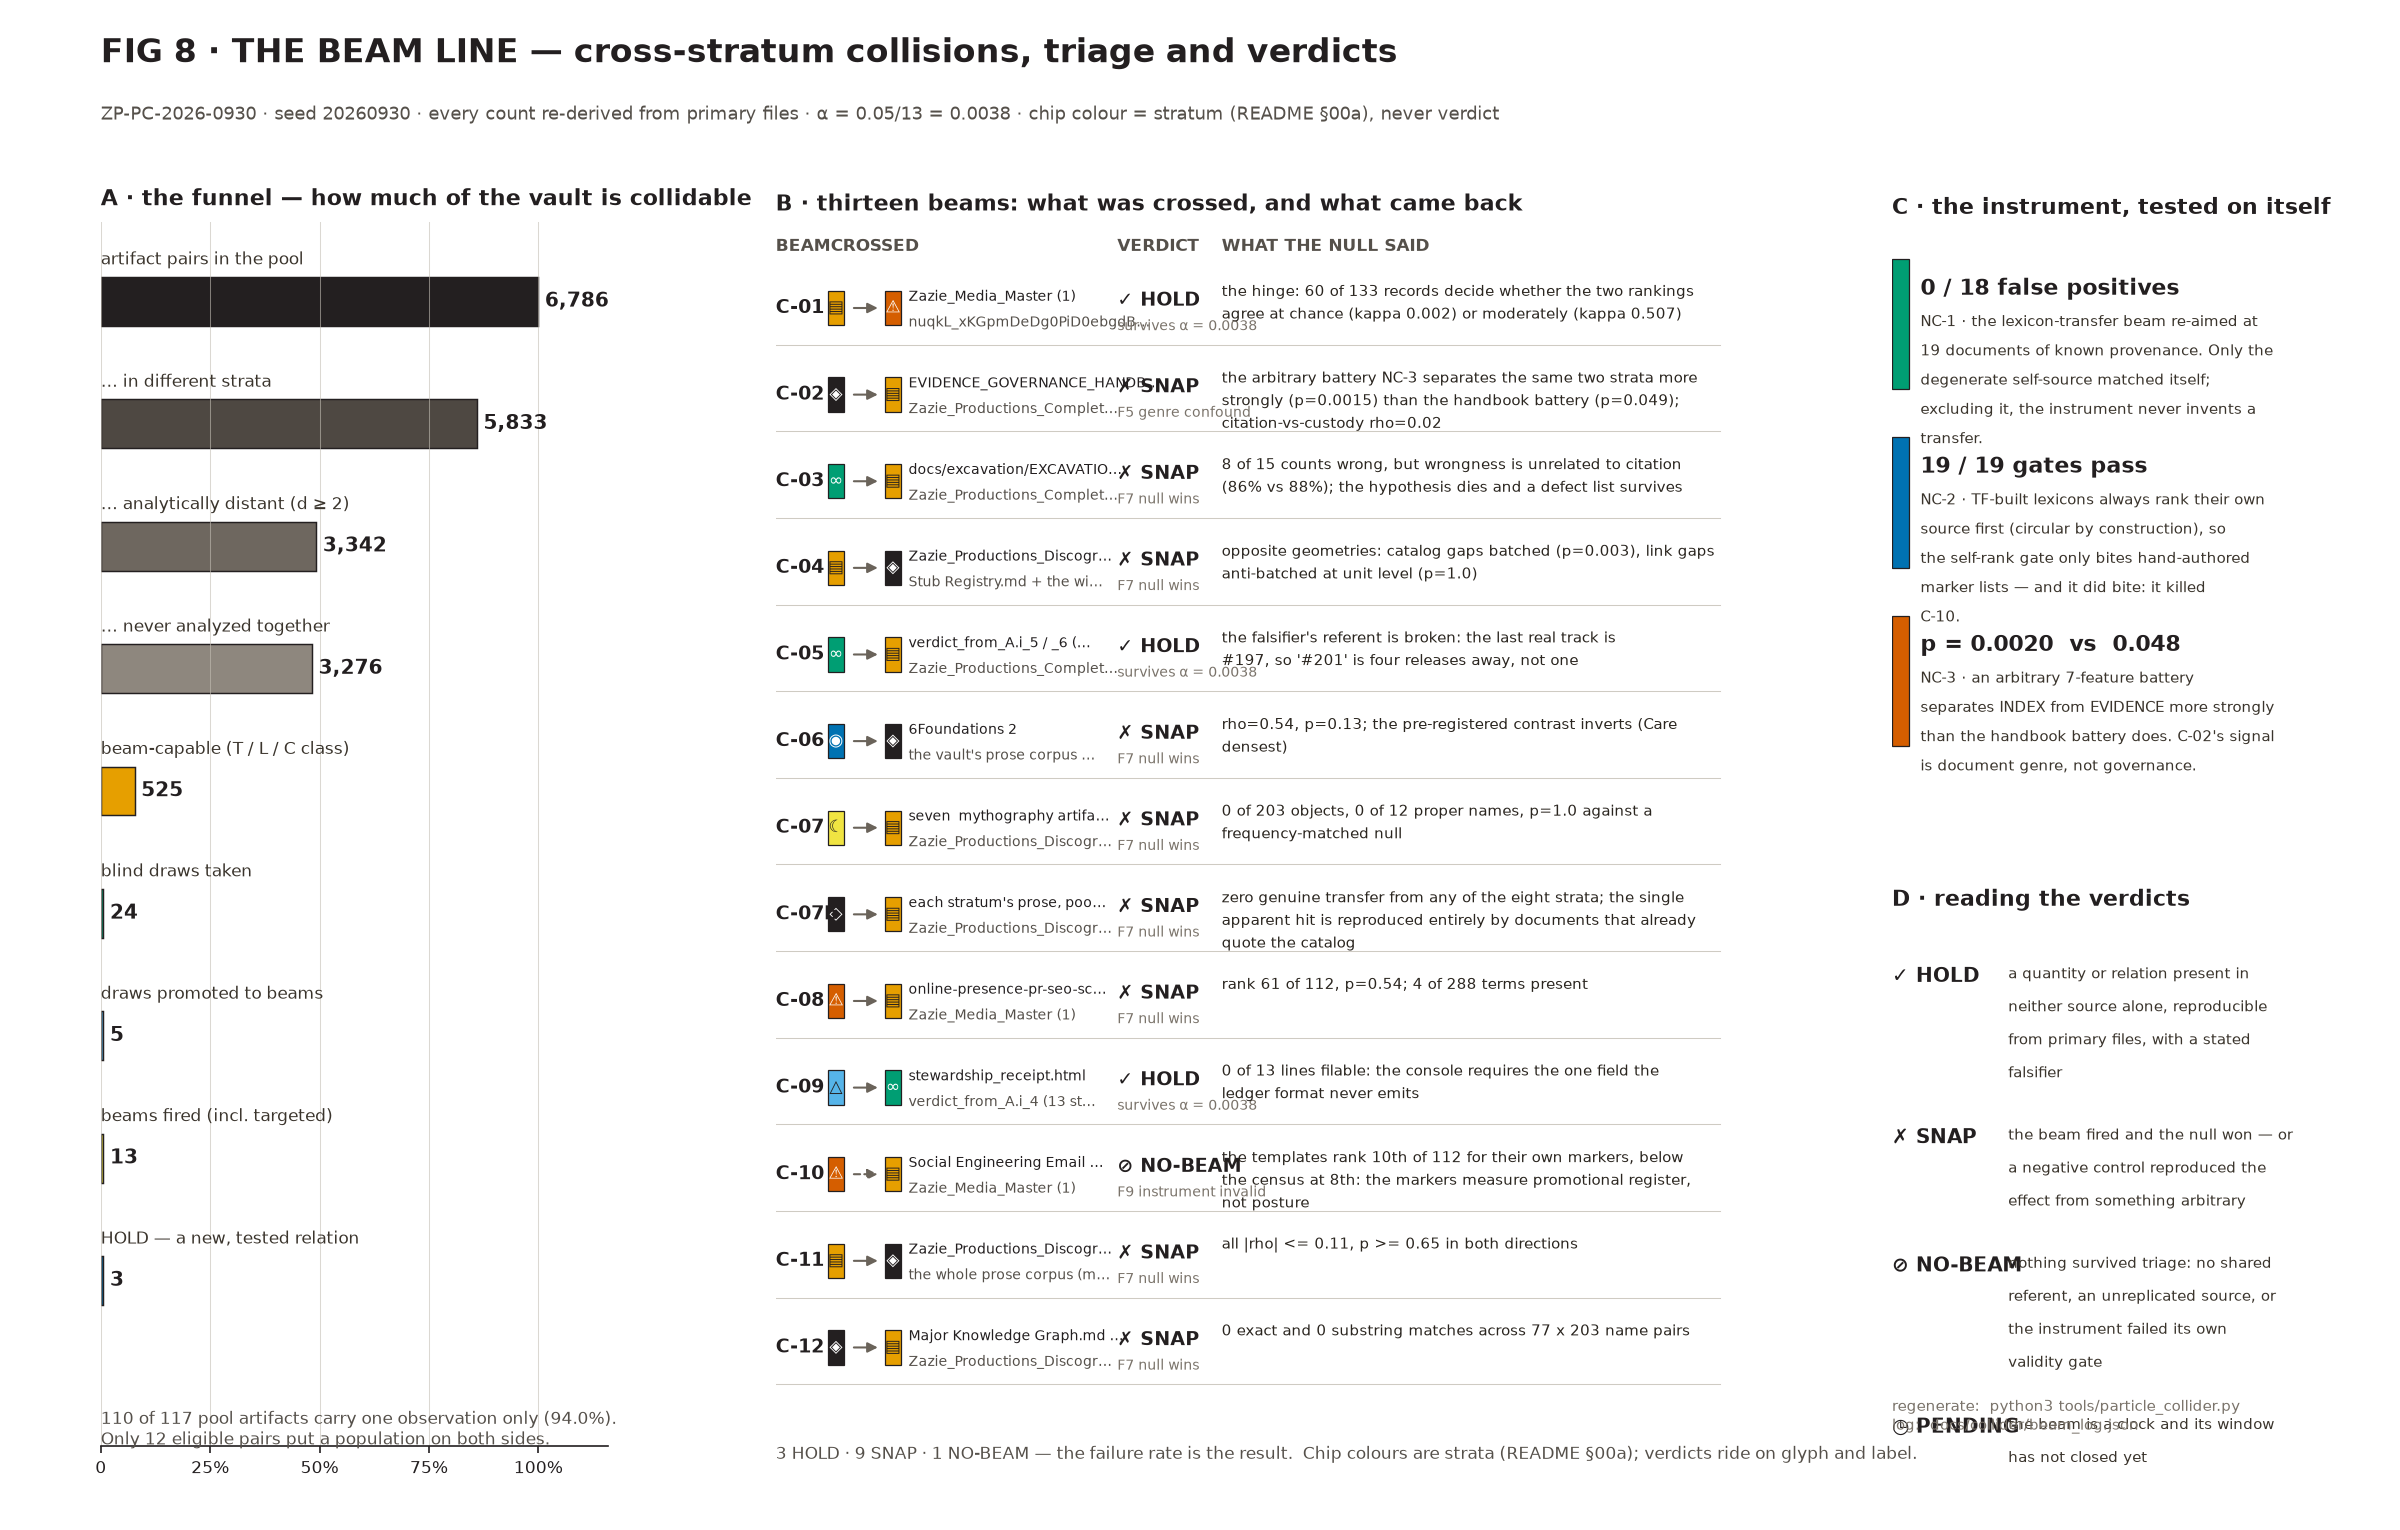
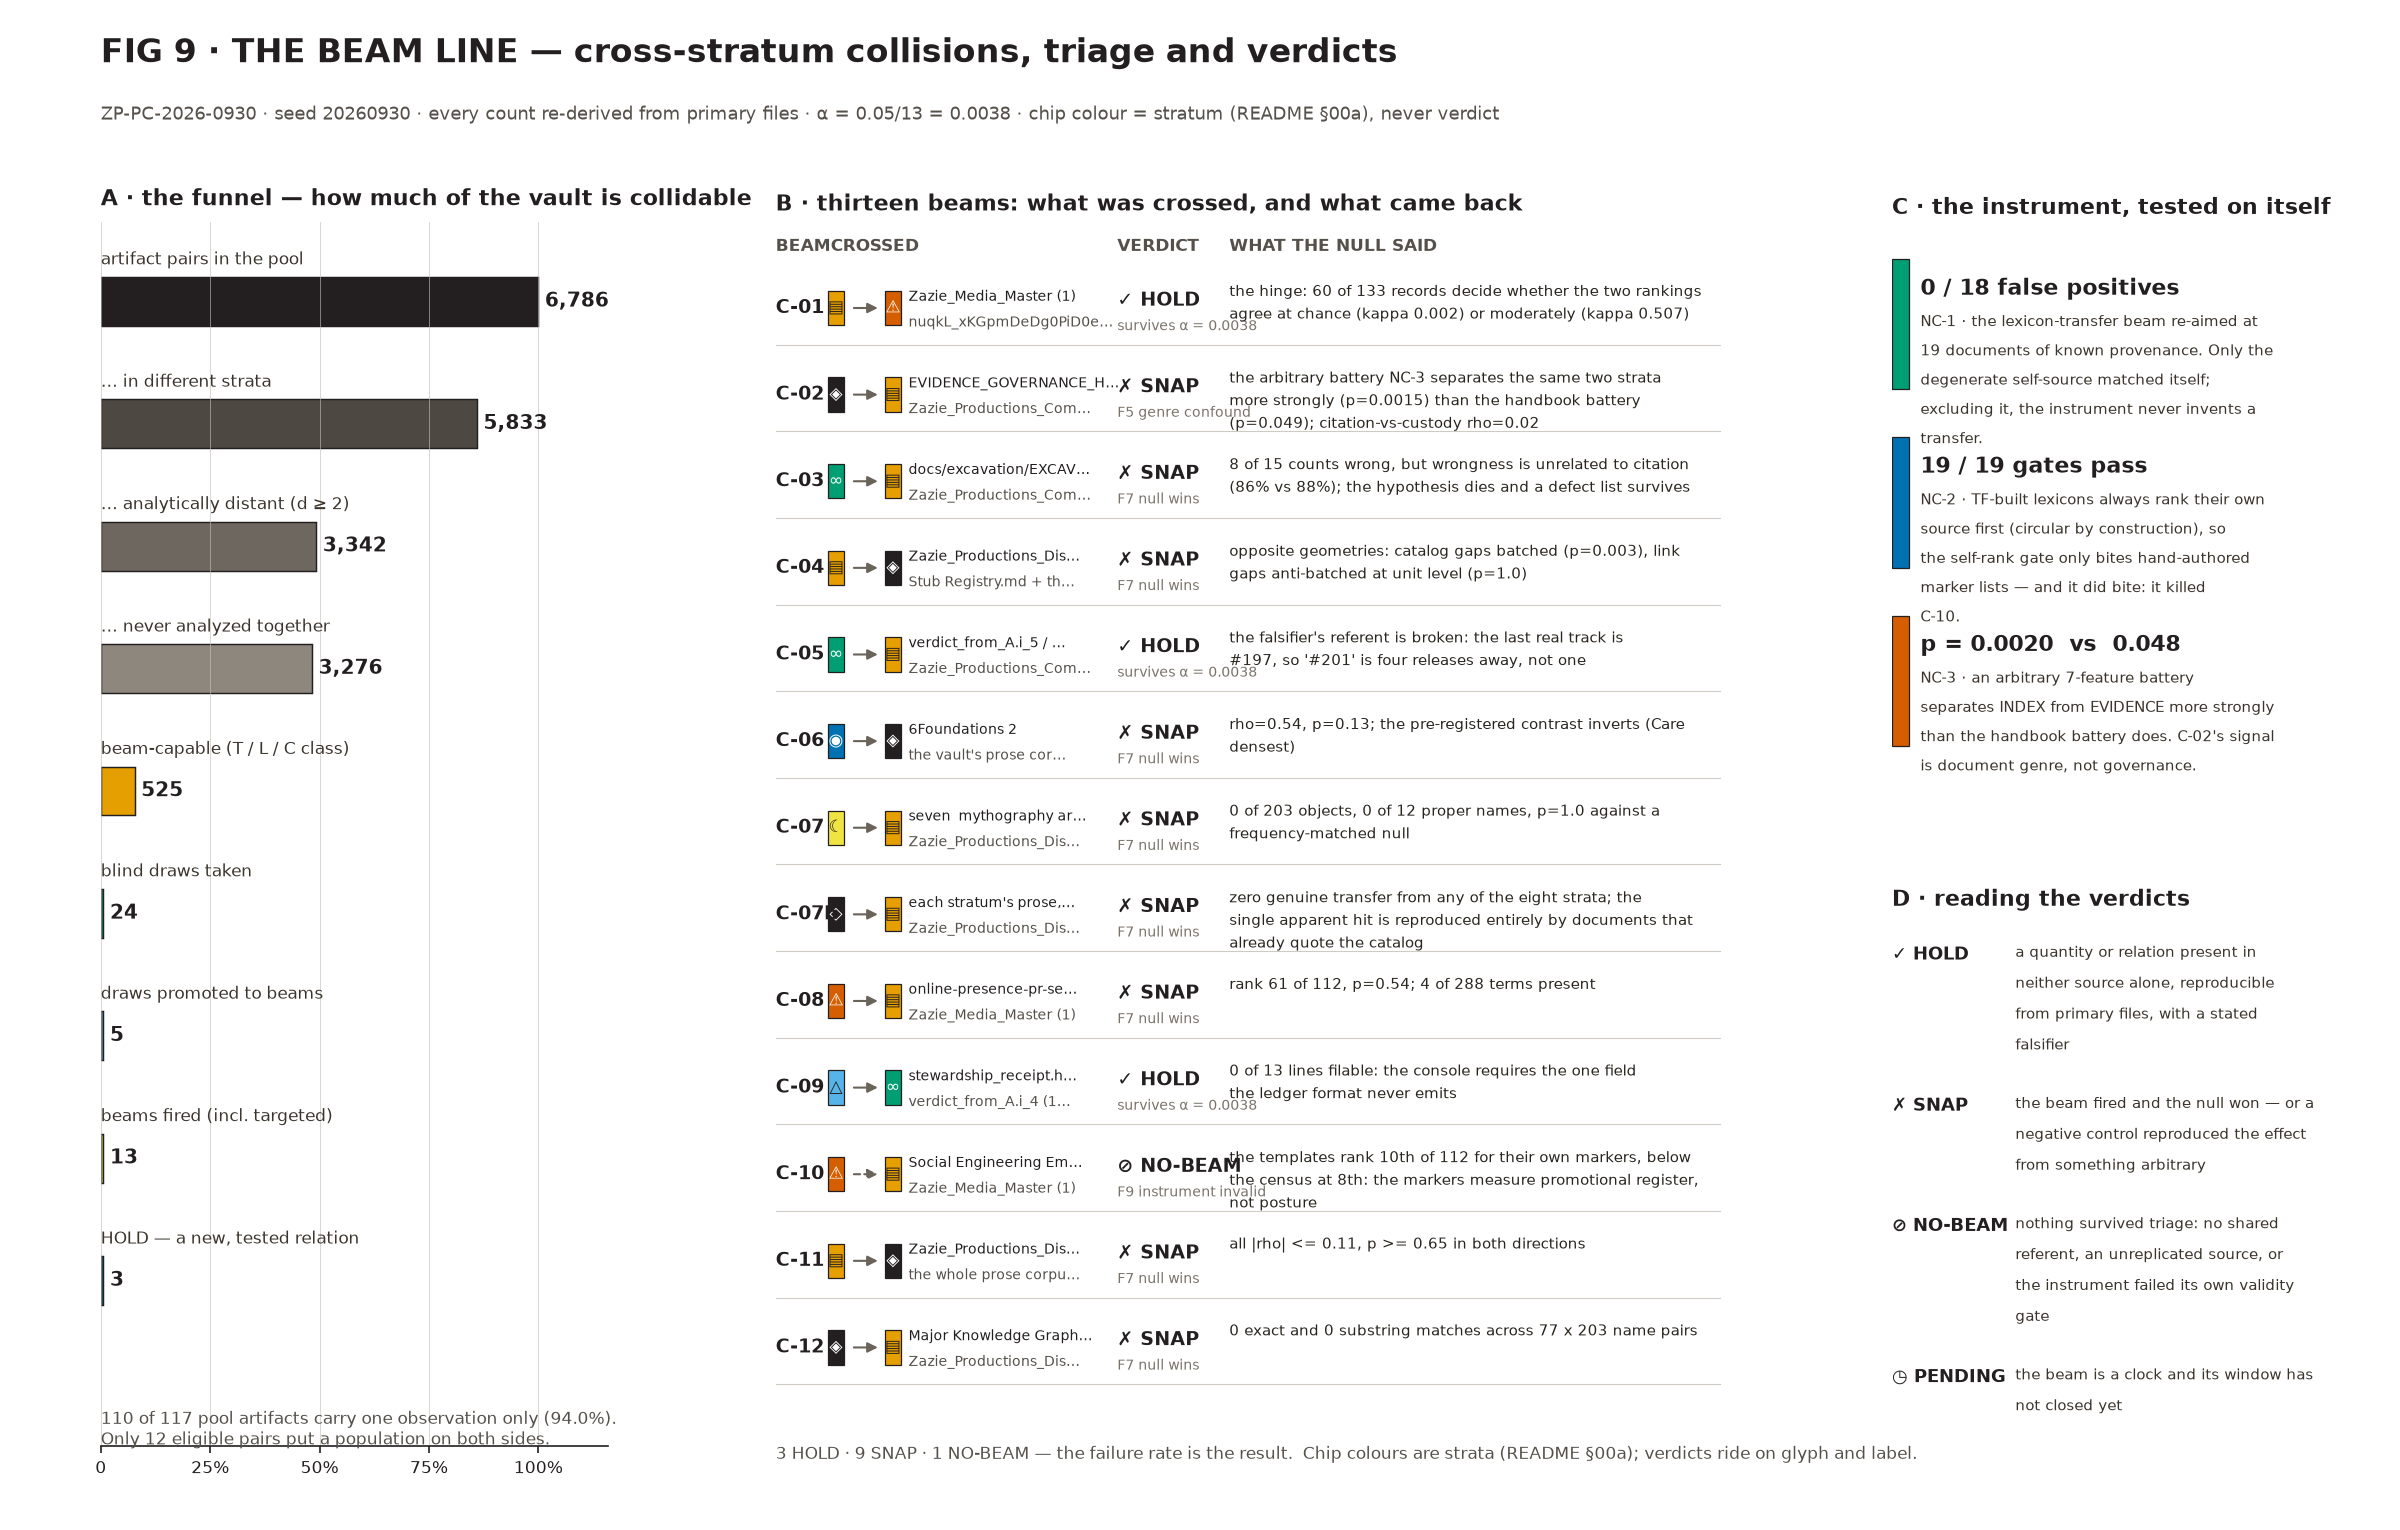
fig9: title renumber takes effect, final column nudges

diff --git a/tools/particle_collider.py b/tools/particle_collider.py
@@ -1726,7 +1726,7 @@ def render_figure(log):
     gs = fig.add_gridspec(2, 3, width_ratios=[0.92, 1.72, 0.86], height_ratios=[1, 1],
                           left=0.042, right=0.986, top=0.855, bottom=0.055,
                           wspace=0.26, hspace=0.30)
-    fig.text(0.042, 0.965, "FIG 8 · THE BEAM LINE — cross-stratum collisions, triage and verdicts",
+    fig.text(0.042, 0.965, "FIG 9 · THE BEAM LINE — cross-stratum collisions, triage and verdicts",
              fontsize=16, fontweight="bold", ha="left", va="center")
     fig.text(0.042, 0.925, "ZP-PC-2026-0930 · seed 20260930 · every count re-derived from primary files · "
                            "α = 0.05/13 = 0.0038 · chip colour = stratum (README §00a), never verdict",
@@ -1770,7 +1770,7 @@ def render_figure(log):
     top, bot = 0.965, 0.045
     ax.text(0.0, 1.005, "B · thirteen beams: what was crossed, and what came back",
             fontsize=10.5, fontweight="bold", transform=ax.transAxes, va="bottom")
-    for label, x in (("BEAM", 0.0), ("CROSSED", 0.058), ("VERDICT", 0.360), ("WHAT THE NULL SAID", 0.470)):
+    for label, x in (("BEAM", 0.0), ("CROSSED", 0.058), ("VERDICT", 0.360), ("WHAT THE NULL SAID", 0.492))):
         ax.text(x, top + 0.008, label, fontsize=8.0, fontweight="bold", color=DIM,
                 transform=ax.transAxes, va="bottom")
     GLYPH_MARK = {"HOLD": "✓", "SNAP": "✗", "NO-BEAM": "⊘", "PENDING": "◷"}
@@ -1794,16 +1794,16 @@ def render_figure(log):
         ax.text(0.1235, yv, gb, ha="center", va="center", fontsize=8.0, transform=ax.transAxes,
                 color="white" if cb in WHITE_ON else INK)
         ax.text(0.0, yv, b["id"], fontsize=9.2, fontweight="bold", va="center", transform=ax.transAxes)
-        ax.text(0.140, yv + 0.009, _disp(b["source"], 26), fontsize=6.9, va="center", transform=ax.transAxes)
-        ax.text(0.140, yv - 0.012, _disp(b["target"], 26), fontsize=6.9, va="center", color=DIM,
+        ax.text(0.140, yv + 0.009, _disp(b["source"], 22), fontsize=6.9, va="center", transform=ax.transAxes)
+        ax.text(0.140, yv - 0.012, _disp(b["target"], 22), fontsize=6.9, va="center", color=DIM,
                 transform=ax.transAxes)
         v = b["verdict"]
         ax.text(0.360, yv + 0.006, f"{GLYPH_MARK[v]} {v}", fontsize=9.2, va="center",
                 fontweight="bold", transform=ax.transAxes)
         sub = b["failure_class"] or ("survives α = 0.0038" if v == "HOLD" else "")
         ax.text(0.360, yv - 0.015, sub, fontsize=6.6, va="center", color="#7A736A", transform=ax.transAxes)
-        for k, ln in enumerate(_wrap(b["verdict_note"], 62)[:3]):
-            ax.text(0.470, yv + 0.013 - k * 0.0185, ln, fontsize=7.1, va="center",
+        for k, ln in enumerate(_wrap(b["verdict_note"], 58)[:3]):
+            ax.text(0.492, yv + 0.013 - k * 0.0185, ln, fontsize=7.1, va="center",
                     color="#2A251F", transform=ax.transAxes)
         ax.plot([0.0, 0.995], [yv - 0.030, yv - 0.030], color=GRID, lw=0.5, alpha=0.8,
                 transform=ax.transAxes)
@@ -1852,17 +1852,14 @@ def render_figure(log):
               ("⊘ NO-BEAM", "nothing survived triage: no shared referent, an "
                "unreplicated source, or the instrument failed its own validity gate"),
               ("◷ PENDING", "the beam is a clock and its window has not closed yet")]
-    yy = 0.90
+    yy = 0.94
     for mark, txt in legend:
-        ax.text(0.0, yy, mark, fontsize=9.4, fontweight="bold", transform=ax.transAxes, va="top")
-        lines = _wrap(txt, 37)
+        ax.text(0.0, yy, mark, fontsize=8.8, fontweight="bold", transform=ax.transAxes, va="top")
+        lines = _wrap(txt, 38)
         for k, ln in enumerate(lines):
-            ax.text(0.245, yy - k * 0.062, ln, fontsize=7.2, color="#3A342C",
+            ax.text(0.26, yy - k * 0.058, ln, fontsize=7.1, color="#3A342C",
                     transform=ax.transAxes, va="top")
-        yy -= 0.062 * max(len(lines), 1) + 0.055
-    ax.text(0.0, 0.02, "regenerate:  python3 tools/particle_collider.py\n"
-            "log:  docs/collider/beam_log.json", fontsize=7.4, color="#7A736A",
-            transform=ax.transAxes, va="bottom")
+        yy -= 0.058 * max(len(lines), 1) + 0.052
     out = os.path.join(ROOT, "docs", "figures", "fig9_beamline.png")
     fig.savefig(out, dpi=150)
     plt.close(fig)
